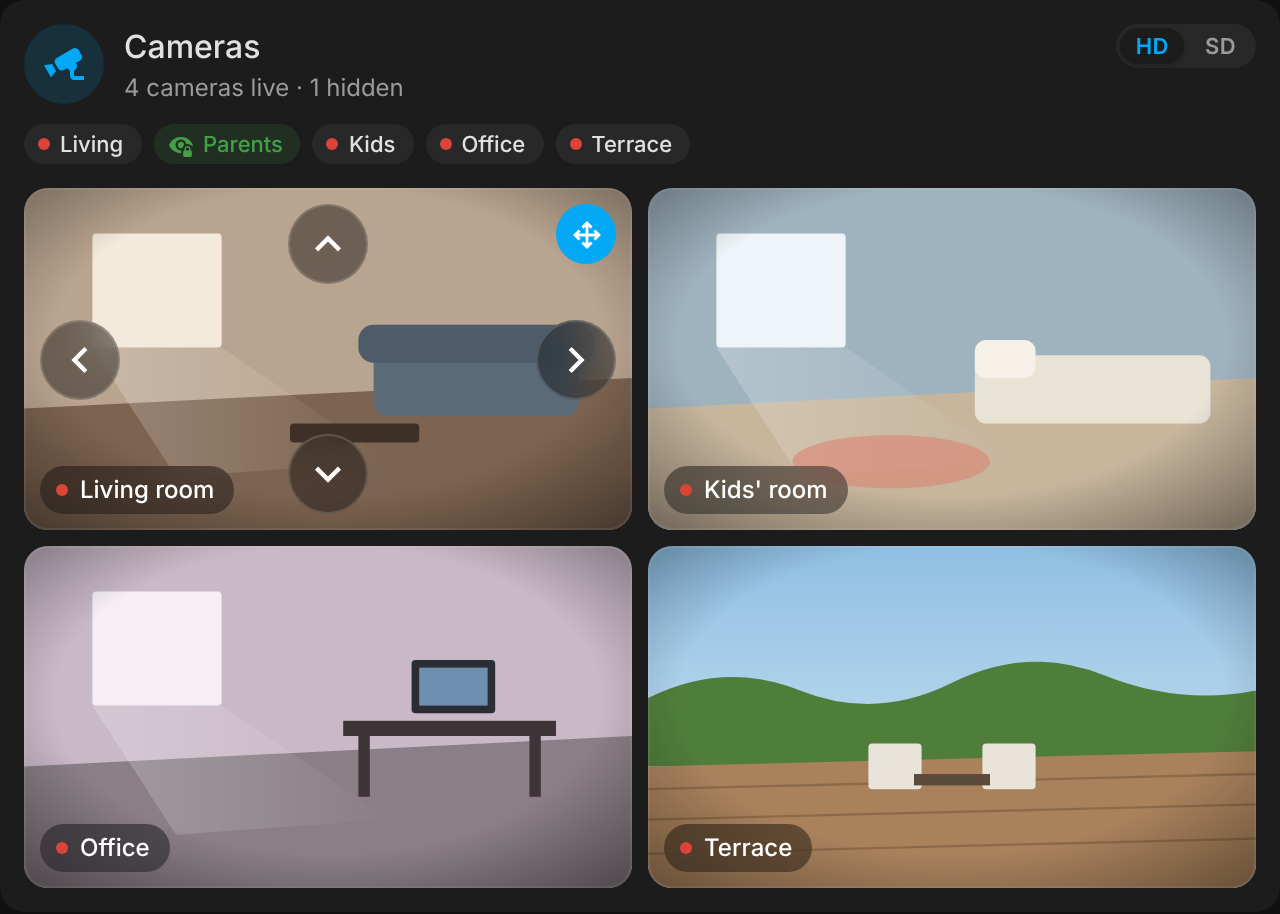
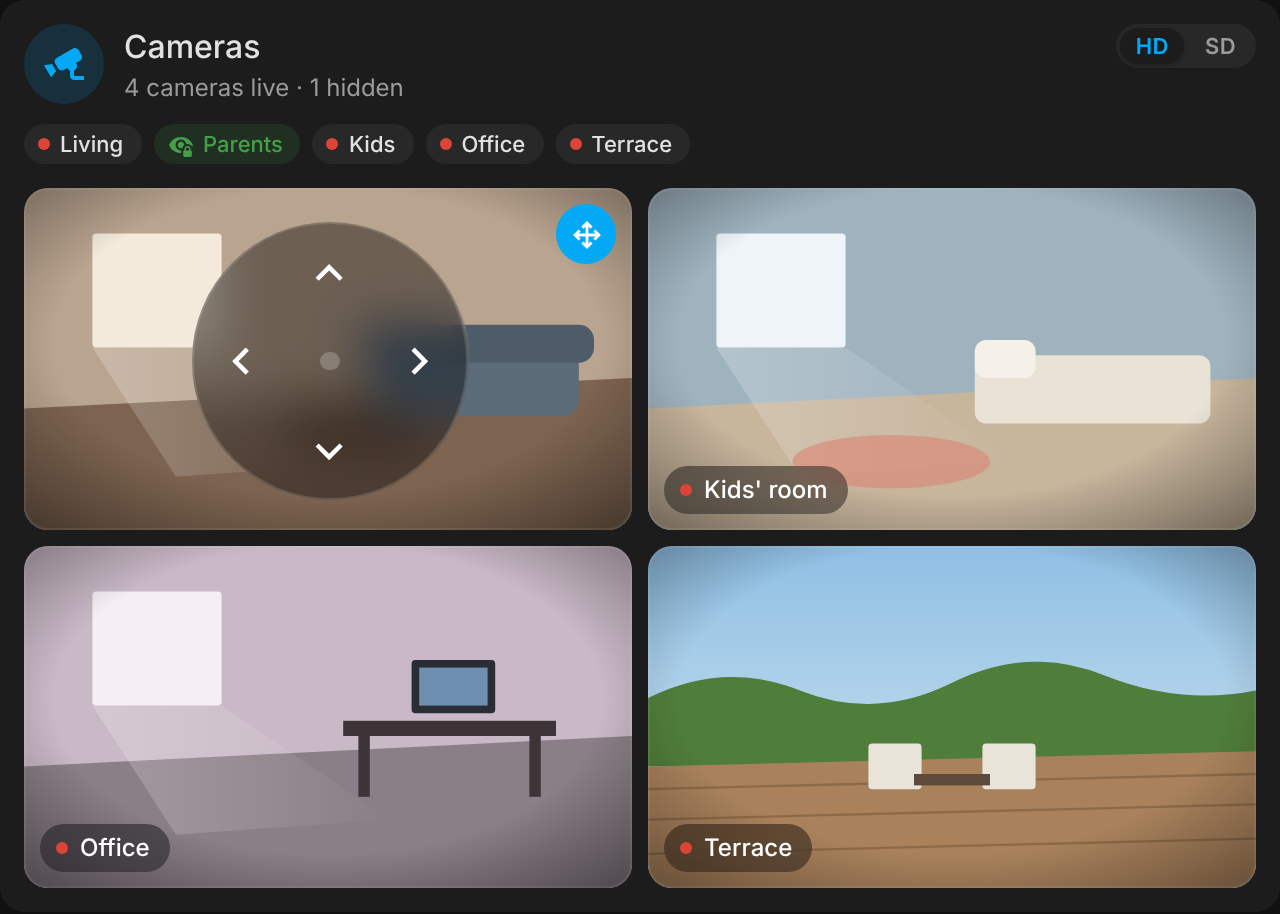
Round pan & tilt pad in the grid too
The pad from fullscreen now also opens on the tiles: centred, sized to
the tile with container units, the name stepping aside while it is
open. Buttons stay above the pad on narrow tiles.

Claude-Session: https://claude.ai/code/session_01BJht1x7VNww4d7EZ9aGf12

Changed region(s): [[0.0312, 0.2144, 0.375, 0.5821], [0.4062, 0.337, 0.5, 0.4595], [0.0312, 0.337, 0.0938, 0.4595]]

diff --git a/src/home-camera-card.js b/src/home-camera-card.js
@@ -824,7 +824,7 @@ class HomeCameraCard extends HTMLElement {
       '@keyframes hc-live { 50% { opacity: 0.35; } }' +
       '.view:empty { display: none; }' +
       '.grid { display: grid; gap: 8px; }' +
-      '.tile { position: relative; aspect-ratio: var(--hc-ratio, 1.7778); border-radius: 12px; overflow: hidden; background: #0d0f12; }' +
+      '.tile { position: relative; aspect-ratio: var(--hc-ratio, 1.7778); border-radius: 12px; overflow: hidden; background: #0d0f12; container-type: size; }' +
       // A hairline ring over the image, so dark scenes keep their edge on a dark card.
       '.tile::after { content: ""; position: absolute; inset: 0; border-radius: inherit; box-shadow: inset 0 0 0 1px rgba(255,255,255,0.07); pointer-events: none; }' +
       ':is(.tile:fullscreen, .tile.pseudo)::after { display: none; }' +
@@ -855,7 +855,8 @@ class HomeCameraCard extends HTMLElement {
       '.label .text { white-space: nowrap; overflow: hidden; text-overflow: ellipsis; }' +
       ':is(.tile:fullscreen, .tile.pseudo) .label { font-size: 15px; padding: 5px 14px 5px 12px; left: max(16px, env(safe-area-inset-left));' +
       ' bottom: max(16px, env(safe-area-inset-bottom)); }' +
-      '.tools { position: absolute; top: 8px; right: 8px; display: flex; gap: 6px; transition: opacity 0.15s; }' +
+      // Above the pan & tilt pad: on narrow tiles the pad reaches the corner of the pan & tilt button.
+      '.tools { position: absolute; top: 8px; right: 8px; z-index: 1; display: flex; gap: 6px; transition: opacity 0.15s; }' +
       ':is(.tile:fullscreen, .tile.pseudo) .tools { top: max(16px, env(safe-area-inset-top)); right: max(16px, env(safe-area-inset-right)); }' +
       '.btn { width: 30px; height: 30px; box-sizing: border-box; border-radius: 50%; display: flex; align-items: center; justify-content: center; cursor: pointer;' +
       ' color: #fff; background: var(--hc-glass); border: 1px solid var(--hc-glass-line); -webkit-backdrop-filter: blur(10px) saturate(1.3); backdrop-filter: blur(10px) saturate(1.3);' +
@@ -867,35 +868,34 @@ class HomeCameraCard extends HTMLElement {
       '.tile.ptz-open .btn.ptz, .btn.sound.on, .move:active { background: var(--primary-color, #03a9f4); border-color: transparent; }' +
       // Narrow tiles: the up arrow would run into the other buttons.
       '.tile.ptz-open .tools .btn:not(.ptz) { display: none; }' +
-      '.pad { display: none; }' +
-      '.tile.ptz-open .pad, :is(.tile:fullscreen, .tile.pseudo) .pad { display: block; }' +
-      '.move { --s: 40px; position: absolute; width: var(--s); height: var(--s); touch-action: none; }' +
-      '.move ha-icon { --mdc-icon-size: 26px; }' +
-      '.move.left { left: 8px; top: calc(50% - var(--s) / 2); }' +
-      '.move.right { right: 8px; top: calc(50% - var(--s) / 2); }' +
-      '.move.up { top: 8px; left: calc(50% - var(--s) / 2); }' +
-      '.move.down { bottom: 8px; left: calc(50% - var(--s) / 2); }' +
-      '.move.dis { opacity: 0.35; cursor: default; }' +
-      // Fullscreen: the arrows gather in a round pad at the bottom right, under the thumb on a phone and
-      // within reach of each other on a large screen; the buttons grow.
-      ':is(.tile:fullscreen, .tile.pseudo) .pad { position: absolute; width: 164px; height: 164px; border-radius: 50%;' +
-      ' right: max(24px, env(safe-area-inset-right)); bottom: max(24px, env(safe-area-inset-bottom));' +
+      // Pan & tilt: a round glass pad, its four arrows around a centre dot. In the grid it sits in the middle
+      // of the tile, sized to it (container units); in fullscreen, at the bottom right under the thumb.
+      '.pad { display: none; position: absolute; --pad: min(164px, 80cqh); width: var(--pad); height: var(--pad); border-radius: 50%;' +
+      ' left: calc(50% - var(--pad) / 2); top: calc(50% - var(--pad) / 2);' +
       ' background: var(--hc-glass); border: 1px solid var(--hc-glass-line); -webkit-backdrop-filter: blur(12px) saturate(1.3); backdrop-filter: blur(12px) saturate(1.3); }' +
-      ':is(.tile:fullscreen, .tile.pseudo) .pad::after { content: ""; position: absolute; inset: 0; margin: auto; width: 12px; height: 12px; border-radius: 50%;' +
+      '.tile.ptz-open .pad, :is(.tile:fullscreen, .tile.pseudo) .pad { display: block; }' +
+      '.pad::after { content: ""; position: absolute; inset: 0; margin: auto; width: calc(var(--pad) * 0.07); height: calc(var(--pad) * 0.07); border-radius: 50%;' +
       ' background: rgba(255,255,255,0.22); pointer-events: none; }' +
-      ':is(.tile:fullscreen, .tile.pseudo) .move { --s: 52px; background: transparent; border-color: transparent; -webkit-backdrop-filter: none; backdrop-filter: none; }' +
-      ':is(.tile:fullscreen, .tile.pseudo) .move:hover { background: rgba(255,255,255,0.12); }' +
-      ':is(.tile:fullscreen, .tile.pseudo) .move ha-icon { --mdc-icon-size: 32px; }' +
-      ':is(.tile:fullscreen, .tile.pseudo) .move.left { left: 4px; }' +
-      ':is(.tile:fullscreen, .tile.pseudo) .move.right { right: 4px; }' +
-      ':is(.tile:fullscreen, .tile.pseudo) .move.up { top: 4px; }' +
-      ':is(.tile:fullscreen, .tile.pseudo) .move.down { bottom: 4px; }' +
+      '.move { --s: calc(var(--pad) * 0.32); position: absolute; width: var(--s); height: var(--s); touch-action: none;' +
+      ' background: transparent; border-color: transparent; -webkit-backdrop-filter: none; backdrop-filter: none; }' +
+      '.move:hover { background: rgba(255,255,255,0.12); }' +
+      '.move:active { background: var(--primary-color, #03a9f4); }' +
+      '.move ha-icon { --mdc-icon-size: calc(var(--s) * 0.62); }' +
+      '.move.left { left: 2px; top: calc(50% - var(--s) / 2); }' +
+      '.move.right { right: 2px; top: calc(50% - var(--s) / 2); }' +
+      '.move.up { top: 2px; left: calc(50% - var(--s) / 2); }' +
+      '.move.down { bottom: 2px; left: calc(50% - var(--s) / 2); }' +
+      '.move.dis { opacity: 0.35; cursor: default; }' +
+      // In the grid the pad covers the middle of the image: the name steps aside while it is open.
+      '.tile.ptz-open .label { opacity: 0; }' +
+      ':is(.tile:fullscreen, .tile.pseudo) .pad { --pad: 164px; left: auto; top: auto;' +
+      ' right: max(24px, env(safe-area-inset-right)); bottom: max(24px, env(safe-area-inset-bottom)); }' +
       ':is(.tile:fullscreen, .tile.pseudo) .btn:not(.move) { width: 40px; height: 40px; }' +
       ':is(.tile:fullscreen, .tile.pseudo) .btn:not(.move) ha-icon { --mdc-icon-size: 20px; }' +
       // Mouse: the buttons show on hover, so the image stays clear. Touch: always shown, and larger.
       '@media (hover: hover) and (pointer: fine) {' +
       ' .tile:not(:hover):not(:focus-within):not(.ptz-open) .tools { opacity: 0; } }' +
-      '@media (pointer: coarse) { .btn { width: 36px; height: 36px; } .btn ha-icon { --mdc-icon-size: 20px; } .move { --s: 46px; } }' +
+      '@media (pointer: coarse) { .btn:not(.move) { width: 36px; height: 36px; } .btn:not(.move) ha-icon { --mdc-icon-size: 20px; } }' +
       '@media (prefers-reduced-motion: reduce) { .label .dot, .spin, .pending ha-icon { animation: none; } }' +
       // Every camera hidden: a quiet panel where the grid would be, saying how to bring one back.
       '.asleep { display: flex; align-items: center; justify-content: center; gap: 8px; min-height: 64px; padding: 12px; box-sizing: border-box;' +

diff --git a/CHANGELOG.md b/CHANGELOG.md
@@ -9,7 +9,7 @@ Visual pass: the same card, nicer to look at.
 - **Badges**: a red live dot while the camera films, green with a lock while it is hidden (was: an eye icon on every badge).
 - **Images**: each name sits in a glass pill with a softly blinking live dot, instead of a dark band over the bottom of the picture; a single camera's pill just says *Live*, its name being the title. Rounder corners, a hairline edge so dark scenes stay framed on a dark card, wider gaps.
 - **Buttons and arrows** on the images are smoked glass with a thin outline, and give under the finger.
-- **Fullscreen**: the pan & tilt arrows gather in a round glass pad at the bottom right (within thumb reach on a phone, within reach of each other on a large screen) instead of sitting at the four edges of the screen; larger buttons and name.
+- **Pan & tilt pad**: the four arrows gather in a round glass pad around a centre dot, instead of sitting at the four edges of the image. In the grid it sits in the middle of the tile, sized to it (the name steps aside while it is open); in fullscreen, at the bottom right, within thumb reach on a phone and within reach of each other on a large screen. Larger buttons and name in fullscreen.
 - **Unavailable** cameras show a softer placeholder; the loading spinner is finer.
 - **Every camera hidden**: a panel where the grid would be says how to bring one back; the HD / SD switch hides.
 - Blinking and spinning stop when the system asks for reduced motion.

diff --git a/README.md b/README.md
@@ -31,7 +31,7 @@ List the cameras, the card finds their privacy switch, SD stream and PTZ buttons
 - Live grid on Home Assistant's own player: WebRTC through go2rtc when available, else HLS or MJPEG — no other card to install
 - **Tap a camera to put it fullscreen**, with a round pan & tilt pad at the bottom right; tap again or press Escape to come back (on iPhone, the card covers the screen itself)
 - *Details* button on every tile for Home Assistant's camera dialog; **sound** button on streams that carry sound, for one camera at a time (the grid starts muted)
-- **PTZ**: a button on the tile shows four arrows over the image; hold an arrow to keep moving, or use the arrow keys; arrows whose button is unavailable are greyed out
+- **PTZ**: a button on the tile shows a round pad of four arrows over the image; hold an arrow to keep moving, or use the arrow keys; arrows whose button is unavailable are greyed out
 - Spinner until each camera's first frame; privacy badges spin until their switch answers
 - Mouse: tile buttons show on hover; touch: always shown, with larger targets
 - Hiding or showing a camera, or switching HD / SD, never reloads the streams of the other cameras
